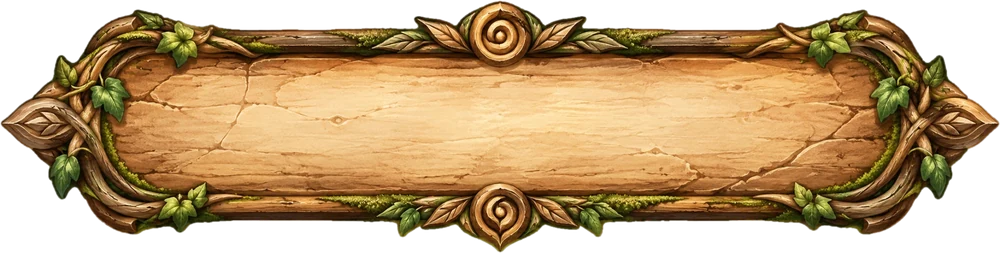
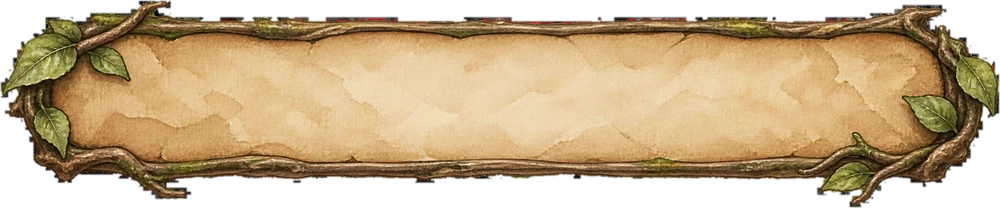
Botones con el papiro de ramas y hojas
Claude-Session: https://claude.ai/code/session_01J2ArvszrNwhcddwQryTBZN

diff --git a/public/style.css b/public/style.css
@@ -1650,3 +1650,9 @@ body { font-size: 18px; font-weight: 600; }
 /* si la ventana de decisión solo tiene botones, sin papiro detrás: bastan los botones de madera */
 .float-act.bare { border: 0 !important; border-image: none !important; background: none !important; filter: none !important; padding: 0 !important; }
 .float-act.bare .btn { font-size: 1.2em !important; padding: 6px 14px !important; }
+/* botón: papiro con ramas (más bajo en los bordes que el marco anterior) */
+.btn.primary, .float-act .btn, .home-actions .btn, .lobby .row .btn, .parch-card .row .btn {
+  border-width: 12px 34px !important;
+  border-image: url(img/ui/boton.webp) 44 140 44 140 fill / 12px 34px / 0 stretch !important;
+  padding: 4px 4px !important;
+}

diff --git a/tools/preparar_arte.py b/tools/preparar_arte.py
@@ -162,8 +162,8 @@ def libro_inclinado():
 
 
 def boton():
-    """Marco de madera con hiedra (hoja 43) para los botones grandes."""
-    im = cut_background(load(43), thr=24, feather=1.2, erode=3)
+    """Papiro con ramas y hojas (hoja 44) para los botones grandes."""
+    im = cut_background(load(44), thr=24, feather=1.2, erode=3)
     save(fit(im, 1000), 'ui', 'boton', q=88)
 
 
